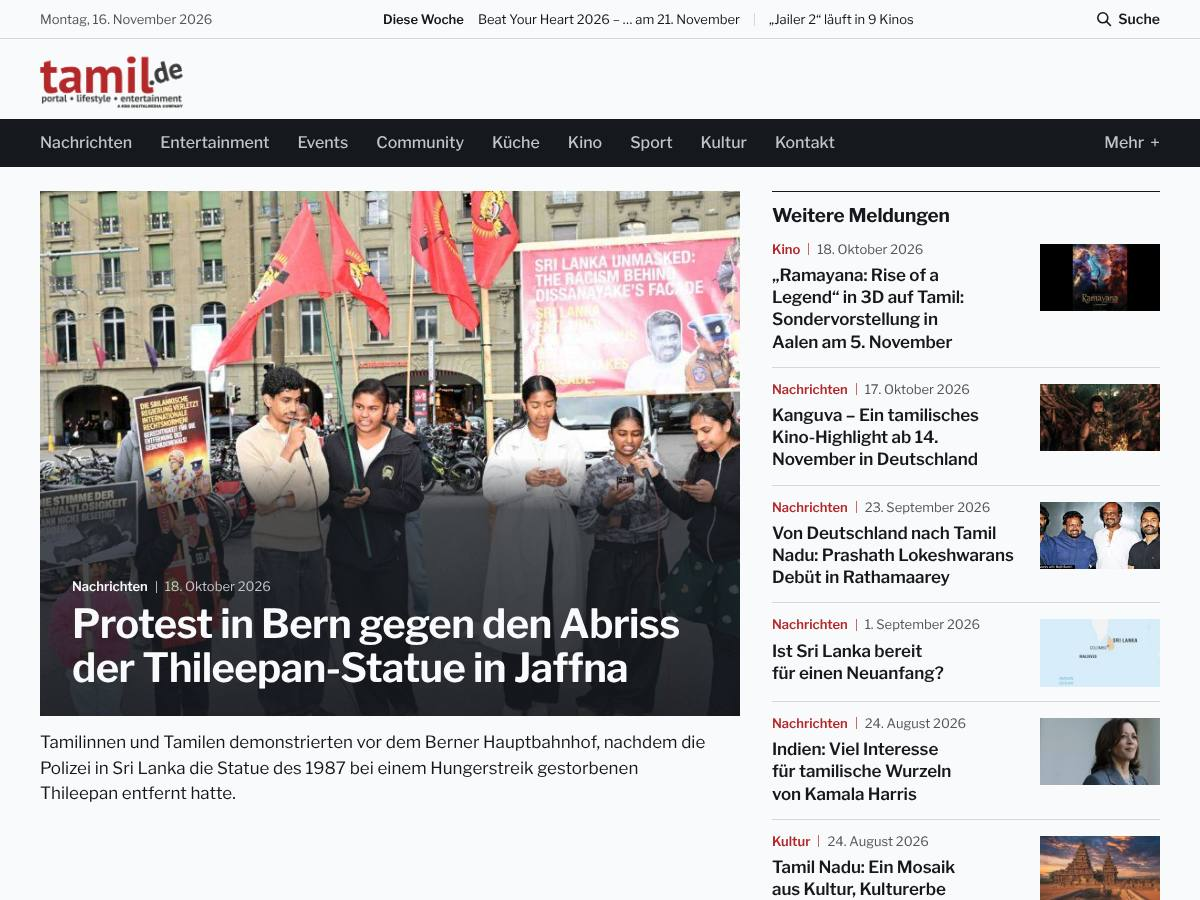
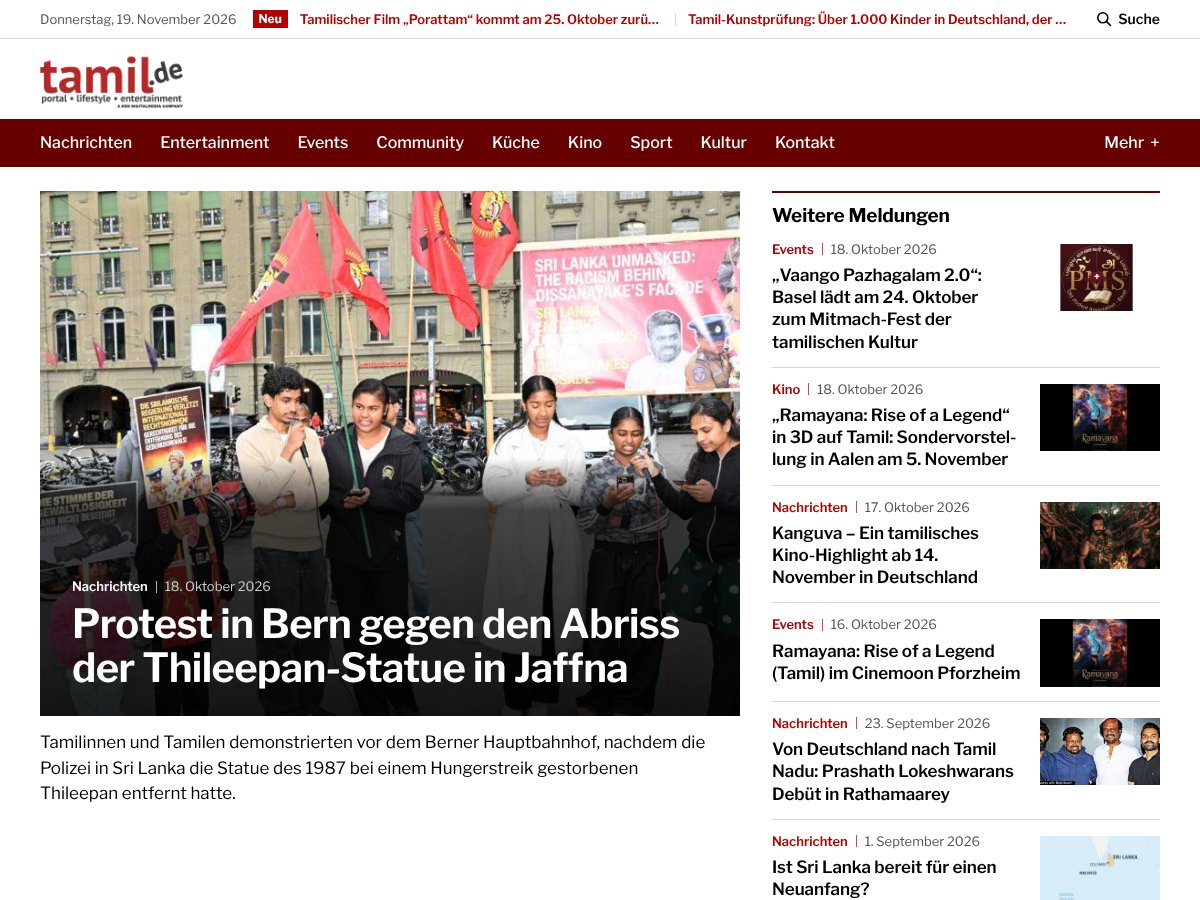
feat(theme): Version 3.4.0
Markenfarben (Titan Red, Impact Red, Weiß, Schwarz); Beschreibung in
style.css und Theme-Vorschaubild auf den neuen Stand.

Claude-Session: https://claude.ai/code/session_01VBg2WFSs9tPNRidQXUcJan

diff --git a/wordpress/themes/tamil/style.css b/wordpress/themes/tamil/style.css
@@ -1,9 +1,9 @@
 /*
 Theme Name:        Tamil.de
 Theme URI:         https://www.tamil.de
-Description:       Magazin-Theme für Tamil.de in der Gestaltung „klar2“: heller Grund, rotes Rubrikband mit weißer Schrift, große Bilder mit Titel im Bild, jeder Anreißer mit Bild (eigenes Foto, Bild aus dem Text oder gekennzeichnetes Symbolbild), dunkler Bereich „Diese Woche“ für Kino und Termine, Libre Franklin. Ruhige Bewegung beim Scrollen (Variante D), nur ohne „Bewegung reduzieren“. Klassisches Theme mit theme.json; Werbeplätze, Termine, Einsendungen, Verzeichnis und Werbebuchung kommen aus dem Plugin „Tamil.de Website“.
+Description:       Magazin-Theme für Tamil.de in der Gestaltung „klar2“ mit den Markenfarben: weißer Grund, Rubrikband in Titan Red mit weißer Schrift, Impact Red als Akzent, große Bilder mit Titel im Bild, jeder Anreißer mit Bild (eigenes Foto, Bild aus dem Text oder gekennzeichnetes Symbolbild), Bereich „Diese Woche“ in Titan Red für Kino und Termine, Libre Franklin. Ruhige Bewegung beim Scrollen (Variante D), nur ohne „Bewegung reduzieren“. Klassisches Theme mit theme.json; Werbeplätze, Termine, Einsendungen, Verzeichnis und Werbebuchung kommen aus dem Plugin „Tamil.de Website“.
 Author:            HK Growth Operator
-Version:           3.3.1
+Version:           3.4.0
 Requires at least: 6.6
 Tested up to:      7.1
 Requires PHP:      8.1

diff --git a/wordpress/themes/tamil/functions.php b/wordpress/themes/tamil/functions.php
@@ -8,7 +8,7 @@
 
 defined( 'ABSPATH' ) || exit;
 
-define( 'TAMIL_THEME_VERSION', '3.3.1' );
+define( 'TAMIL_THEME_VERSION', '3.4.0' );
 define( 'TAMIL_THEME_DIR', get_template_directory() );
 define( 'TAMIL_THEME_URI', get_template_directory_uri() );
 
